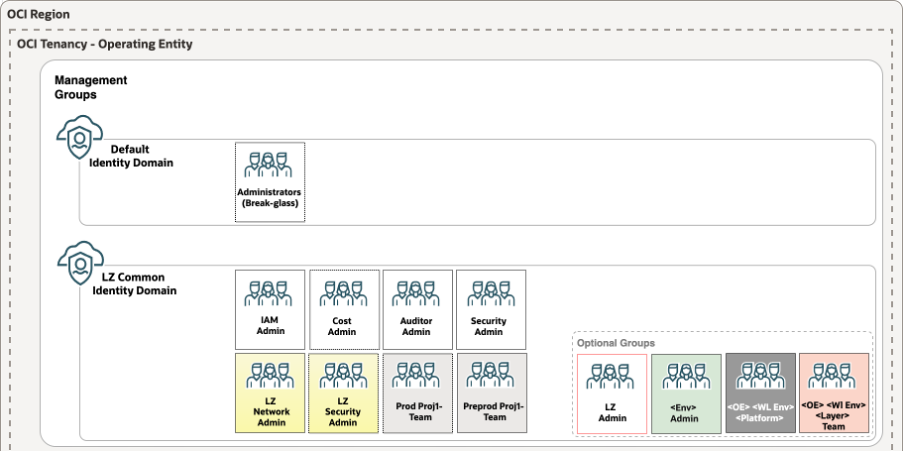
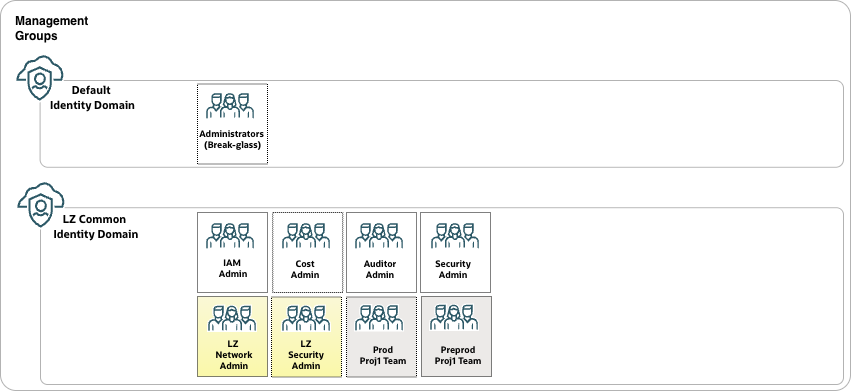
update

Changed region(s): [[0.0, 0.0, 1.0, 1.0], [0.9765, 0.0, 1.0, 0.0306]]

diff --git a/addons/oci-iam-domains/README.md b/addons/oci-iam-domains/README.md
@@ -122,6 +122,10 @@ In this design pattern there is a separate Identity Domain for each environment,
 
 The purpose of this is to provide separation of the users and groups who can access the resources in each environment. For example, a user existing only in the Pre-Production domain would not be able to access any resources in the Production domain.
 
+<p align="center">
+  <img src="images/environment-identity-domain.png" alt="Environment Identity Domain Design" width="600">
+</p>
+
 #### IAM Domain Syntax for Environment Domain
 ```text
 "identity_domains_configuration": {
@@ -160,6 +164,10 @@ In this design pattern there is a separate Identity Domain for each region, for 
 
 The purpose of this is to provide separation of the users and groups who can access the resources in each region. For example, a user existing only in the EU domain would not be able to access any resources in the UK or US domains.
 Note that only the Default Identity Domain is automatically replicated from the Home region to all the subscribed regions. When creating additional domains which are required outside the Home region they have to be explicitly synchronized/replicated to that region.
+
+<p align="center">
+  <img src="images/region-identity-domain.png" alt="Region Identity Domain Design" width="600">
+</p>
 
 #### IAM Domain Syntax for Environment Domain
 ```text
@@ -205,6 +213,10 @@ An Operating Entity is how a company can segregate it’s resources into organiz
 
 The Multi-OE blueprint allows this segregation within a single tenancy using the compartment design.
 However, it could also be a requirement for further separation of the resources through use of an Identity Domain for each Operating Entity.
+
+<p align="center">
+  <img src="images/operating-entity-identity-domain.png" alt="Operating Entity Identity Domain Design" width="600">
+</p>
 
 ```text
 "identity_domains_configuration": {
